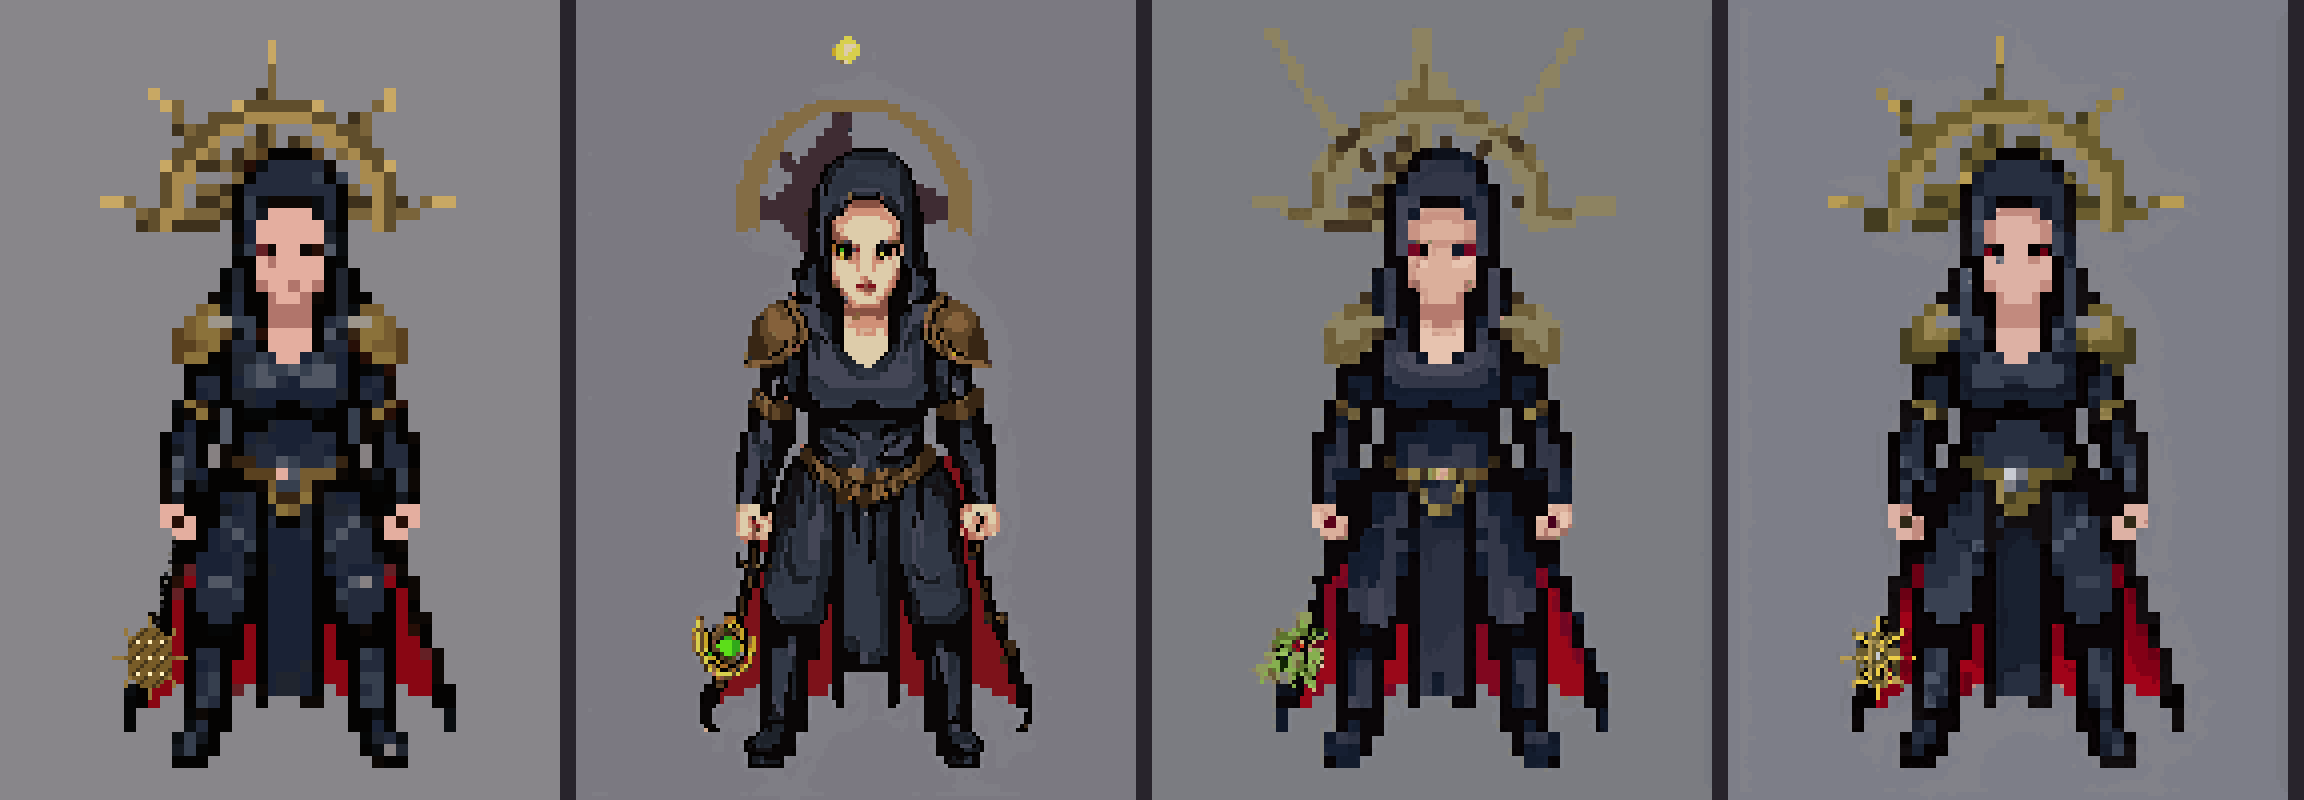
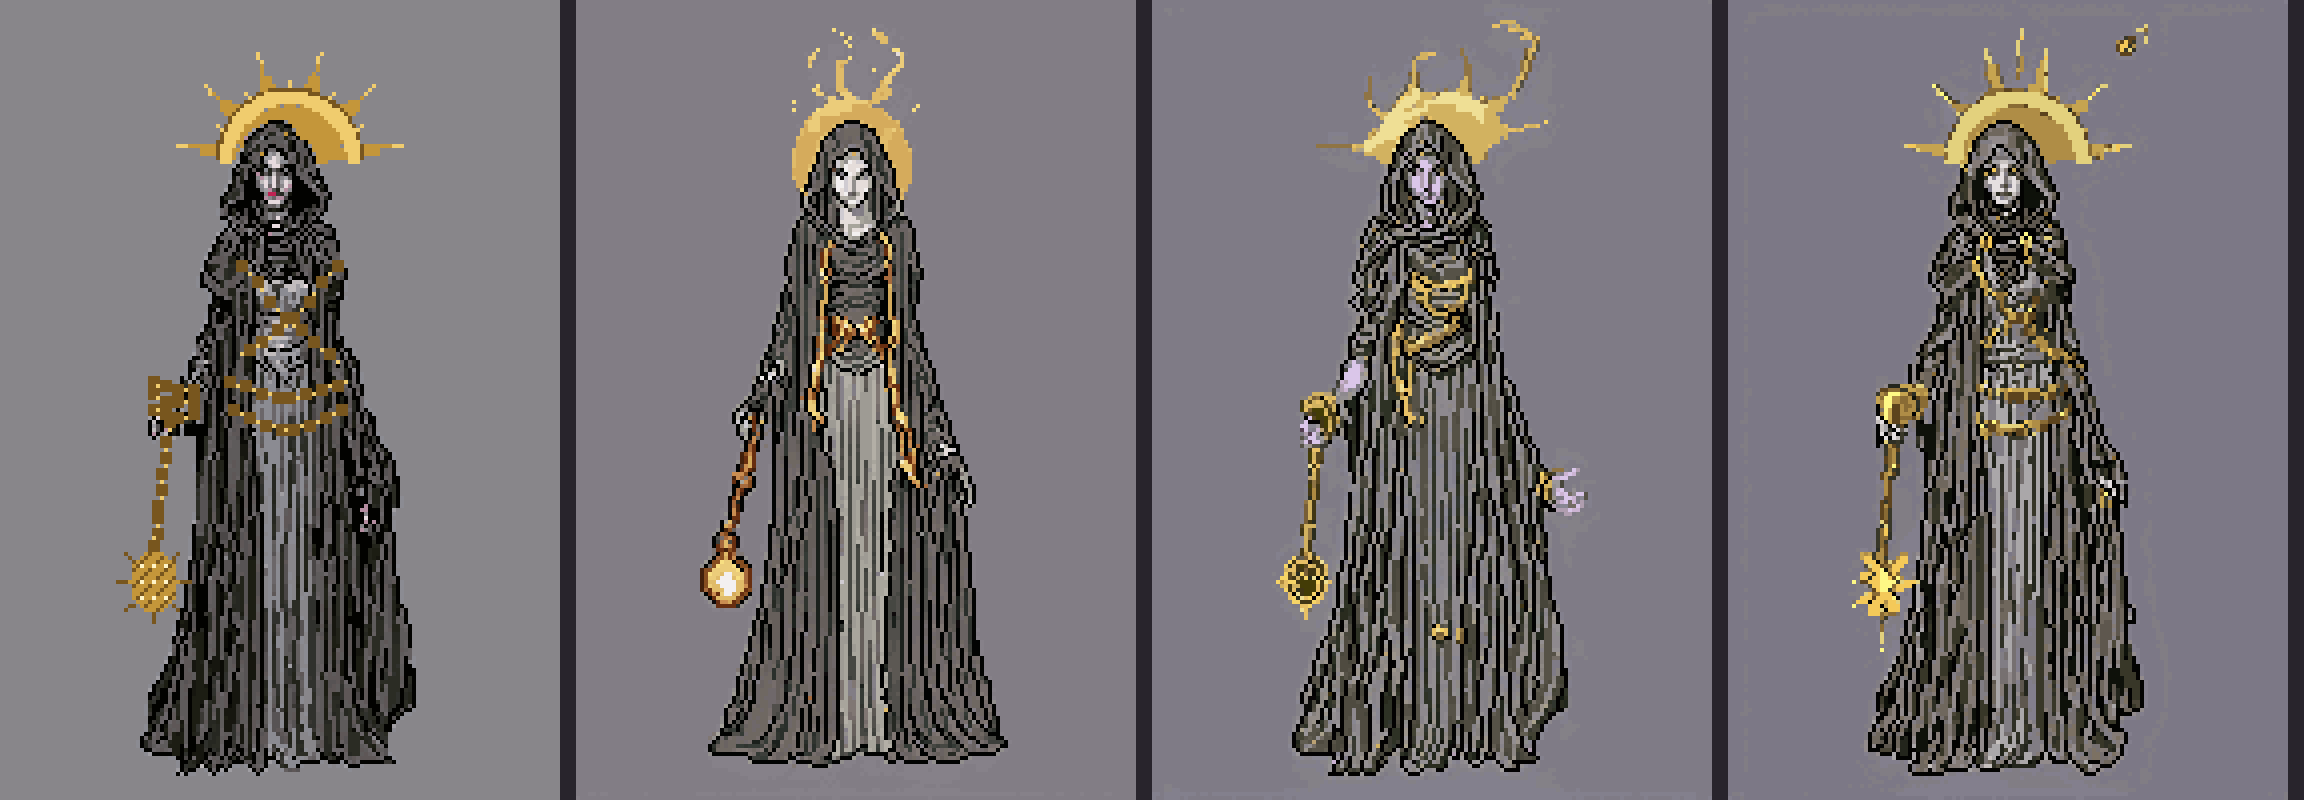
Inquisitor portrait take 7 (5B base, golden halo and chains); portrait tool takes 5-7

diff --git a/tools/inquisitor_portrait.py b/tools/inquisitor_portrait.py
@@ -108,6 +108,178 @@ def redraw4():
     gen.review(gen.GEN / "inquisitor_portrait_review.png", *[p for p in ps if p.exists()])
 
 
+def paint():
+    """Take 5 (the user: "the portrait, not the sprite image"): repaint the approved design freely, as a
+    detailed painted portrait like the other heroes', keeping her pose, halo and darkened gold."""
+    desc = ("highly detailed painted portrait art of a gothic inquisitor woman standing straight, full body, black hood framing "
+            "a pale severe face, a halo of long darkened gold spikes with a gold band arching through them behind her head, "
+            "black leather corset armor with darkened gold shoulder plates and buckles, long black coat with crimson lining, "
+            "tall black boots, a spiked censer on a chain in her hand glowing with white-gold holy fire, plain grey background")
+    for strength in (180, 260, 340):
+        out = D / f"p5_s{strength}.png"
+        if out.exists():
+            continue
+        body = {
+            "description": f"{desc}, anatomically correct, {gen.STYLE}",
+            "image_size": {"width": 140, "height": 200},
+            "no_background": False,
+            "outline": "single color black outline",
+            "shading": "detailed shading",
+            "detail": "highly detailed",
+            "view": "side",
+            "init_image": pixellab.b64img(D / "p4_final.png"),
+            "init_image_strength": strength,
+            "negative_description": "bent legs, crouching, crown, bright yellow gold, mask, blocky, low detail, extra hands, extra arms, text, watermark, nudity, chibi, big head",
+        }
+        r = gen.call("POST", "/create-image-bitforge", body)
+        gen.log_charge(f"inquisitor portrait p5 {strength}", r.get("usage"))
+        gen.save_b64(r["image"], out)
+        print("saved", strength, flush=True)
+    ps = [D / "p4_final.png"] + [D / f"p5_s{s}.png" for s in (180, 260, 340)]
+    gen.review(gen.GEN / "inquisitor_portrait_review.png", *[p for p in ps if p.exists()])
+
+
+def paint_guide(src_path, out_name, head, hand, chains, blades=False, k=0.86, ox=10, oy=26):
+    """A figure keyed out and dropped lower, a golden spiked halo with an arching band behind its head,
+    gold chains wrapped around the body, and a censer on a gold chain from one hand.
+    head / hand / chains are in the source image's pixels."""
+    src = Image.open(src_path).convert("RGBA")
+    px = src.load()
+    bg = px[0, 0]
+    for y in range(src.height):
+        for x in range(src.width):
+            p = px[x, y]
+            if all(abs(p[i] - bg[i]) < 14 for i in range(3)):
+                px[x, y] = (0, 0, 0, 0)
+            # 1C's two blades: light, unsaturated grey reaching out past her coat.
+            elif blades and 82 <= y <= 112 and (x < 42 or x > 98) and min(p[:3]) > 120 and max(p[:3]) - min(p[:3]) < 30:
+                px[x, y] = (0, 0, 0, 0)
+    fig = src.resize((int(src.width * k), int(src.height * k)), Image.NEAREST)
+    out = Image.new("RGBA", (140, 200), BG)
+    op = out.load()
+    GOLD, GOLD_HI, GOLD_DK = (196, 150, 58, 255), (240, 204, 110, 255), (120, 86, 30, 255)
+
+    def put(x, y, c, r=0):
+        for dx in range(-r, r + 1):
+            for dy in range(-r, r + 1):
+                X, Y = int(round(x)) + dx, int(round(y)) + dy
+                if 0 <= X < 140 and 0 <= Y < 200:
+                    op[X, Y] = c
+
+    f = lambda x, y: (ox + x * k, oy + y * k)
+    hx, hy = f(*head)
+    for i in range(11):
+        a = math.pi + 0.15 + i / 10 * (math.pi - 0.3)
+        length = 28 if i % 2 == 0 else 20
+        for t in range(8, length + 1):
+            put(hx + math.cos(a) * t, hy + math.sin(a) * t, GOLD_HI if t >= length - 2 else GOLD, 1 if t < length - 6 else 0)
+    for j in range(160):
+        a = math.pi + 0.05 + j / 159 * (math.pi - 0.1)
+        put(hx + math.cos(a) * 16, hy + math.sin(a) * 16, GOLD_HI, 1)
+        put(hx + math.cos(a) * 18, hy + math.sin(a) * 18, GOLD_DK)
+    out.alpha_composite(fig, (ox, oy))
+
+    def chain(x0, y0, x1, y1, sag=0.0):
+        n = int(max(abs(x1 - x0), abs(y1 - y0)) / 2) + 1
+        for s_ in range(n + 1):
+            t = s_ / n
+            x = x0 + (x1 - x0) * t
+            y = y0 + (y1 - y0) * t + math.sin(t * math.pi) * sag
+            put(x, y, GOLD_HI if s_ % 2 else GOLD_DK, 0 if s_ % 2 else 1)
+
+    for (x0, y0, x1, y1, sag) in chains:
+        chain(*f(x0, y0), *f(x1, y1), sag)
+    hx2, hy2 = f(*hand)
+    cen = (hx2 - 4, hy2 + 40)
+    chain(hx2, hy2, cen[0], cen[1] - 8, 2)
+    cx, cy = cen
+    for y in range(-7, 9):
+        w = int(6 * math.sqrt(max(0.0, 1 - (y / 8) ** 2)))
+        for x in range(-w, w + 1):
+            c = GOLD if (x + y) % 4 else GOLD_DK
+            if abs(x) < w - 1 and y % 4 == 0 and abs(x) % 3 == 0:
+                c = (255, 244, 200, 255)
+            put(cx + x, cy + y, c)
+    for a in range(8):
+        ang = a / 8 * math.tau
+        for t in range(7, 10):
+            put(cx + math.cos(ang) * t, cy + math.sin(ang) * t * 1.1, GOLD_DK)
+    out.save(D / out_name)
+    print("saved", out_name, flush=True)
+
+
+def guide6():
+    """Take 6 (the user): 1C's stance with the halo, gold chains and censer."""
+    v1 = gen.GEN / "_old" / "inquisitor_hero_v1"
+    chains = [(50, 40, 90, 82, 2), (88, 40, 52, 78, 3), (48, 86, 92, 86, 4), (50, 94, 90, 94, 5)] + [(40, 70 + r * 5, 50, 72 + r * 5, 1) for r in range(3)]
+    paint_guide(v1 / "full_c.png", "guide6.png", (70, 14), (46, 92), chains, blades=True)
+
+
+def guide7():
+    """Take 7 (the user: "use 5B as the base"): 5B's tall slender robed figure, with the golden spiked
+    halo, gold chains wrapped around her body and the censer on its chain."""
+    chains = [(58, 46, 86, 74, 2), (86, 46, 58, 72, 3), (55, 80, 88, 80, 4), (56, 88, 87, 88, 5)] + [(32, 80 + r * 4, 44, 82 + r * 4, 1) for r in range(3)]
+    paint_guide(D / "p5_s260.png", "guide7.png", (72, 16), (37, 92), chains)
+
+
+def redraw7():
+    desc = ("full body gothic inquisitor woman standing tall and slender in a long flowing black hooded robe, long ash-blonde "
+            "hair, a golden halo of long spikes with a gold band arching through them behind her head, gold chains wrapped "
+            "around her body, black leather corset, a spiked gold censer hanging on a chain from her hand glowing with holy "
+            "fire, plain grey background, highly detailed, cel shading, bold clean outlines")
+    for strength in (380, 460, 540):
+        out = D / f"p7_s{strength}.png"
+        if out.exists():
+            continue
+        body = {
+            "description": f"{desc}, anatomically correct, two hands, {gen.STYLE}",
+            "image_size": {"width": 140, "height": 200},
+            "no_background": False,
+            "outline": "single color black outline",
+            "shading": "flat shading",
+            "detail": "highly detailed",
+            "view": "side",
+            "init_image": pixellab.b64img(D / "guide7.png"),
+            "init_image_strength": strength,
+            "negative_description": "sword, blade, crown, mask, bent legs, crouching, extra hands, extra arms, text, watermark, nudity, chibi, big head",
+        }
+        r = gen.call("POST", "/create-image-bitforge", body)
+        gen.log_charge(f"inquisitor portrait p7 {strength}", r.get("usage"))
+        gen.save_b64(r["image"], out)
+        print("saved", strength, flush=True)
+    ps = [D / "guide7.png"] + [D / f"p7_s{s}.png" for s in (380, 460, 540)]
+    gen.review(gen.GEN / "inquisitor_portrait_review.png", *[p for p in ps if p.exists()])
+
+
+def redraw6():
+    desc = ("full body gothic inquisitor woman standing tall and slender, long ash-blonde hair, black hood, a golden halo of long "
+            "spikes with a gold band arching through them behind her head, gold chains wrapped around her body, black leather "
+            "corset armor with steel plates, long split black coat, tall black boots, a spiked gold censer hanging on a chain "
+            "from her hand glowing with holy fire, plain grey background, highly detailed, cel shading, bold clean outlines")
+    for strength in (380, 460, 540):
+        out = D / f"p6_s{strength}.png"
+        if out.exists():
+            continue
+        body = {
+            "description": f"{desc}, anatomically correct, two hands, {gen.STYLE}",
+            "image_size": {"width": 140, "height": 200},
+            "no_background": False,
+            "outline": "single color black outline",
+            "shading": "flat shading",
+            "detail": "highly detailed",
+            "view": "side",
+            "init_image": pixellab.b64img(D / "guide6.png"),
+            "init_image_strength": strength,
+            "negative_description": "sword, blade, crown, mask, bent legs, crouching, extra hands, extra arms, text, watermark, nudity, chibi, big head",
+        }
+        r = gen.call("POST", "/create-image-bitforge", body)
+        gen.log_charge(f"inquisitor portrait p6 {strength}", r.get("usage"))
+        gen.save_b64(r["image"], out)
+        print("saved", strength, flush=True)
+    ps = [D / "guide6.png"] + [D / f"p6_s{s}.png" for s in (380, 460, 540)]
+    gen.review(gen.GEN / "inquisitor_portrait_review.png", *[p for p in ps if p.exists()])
+
+
 def guide():
     src = Image.open(D / "full_c.png").convert("RGBA")
     # Key out the flat grey, shrink, and drop her lower for headroom.
@@ -211,4 +383,4 @@ def review():
 
 
 if __name__ == "__main__":
-    {"guide": guide, "redraw": redraw, "review": review, "guide4": guide_sprite, "redraw4": redraw4}[sys.argv[1]]()
+    {"guide": guide, "redraw": redraw, "review": review, "guide4": guide_sprite, "redraw4": redraw4, "paint": paint, "guide6": guide6, "redraw6": redraw6, "guide7": guide7, "redraw7": redraw7}[sys.argv[1]]()

diff --git a/tools/pack.py b/tools/pack.py
@@ -525,8 +525,9 @@ def pack_items():
                    # The user's picks (tools/class_portraits_v2.py and the guided redraws, 2026-10-05).
                    ("portrait_valkyrie", "valkyrie/full_h.png"), ("portrait_berserker", "berserker/b2guide_s450.png"),
                    ("portrait_reaper", "reaper/scythe2_s550.png"), ("portrait_druid", "druid/full_b.png"),
-                   # Built from her sprite, then redrawn and touched up (tools/inquisitor_portrait.py, 2026-10-06).
-                   ("portrait_inquisitor", "inquisitor_hero/p4_final.png")]:
+                   # The user's pick: 5B's build with a golden spiked halo, gold chains and the censer
+                   # (tools/inquisitor_portrait.py guide7 / redraw7, strength 540, specks cleaned).
+                   ("portrait_inquisitor", "inquisitor_hero/p7_final.png")]:
         p = GEN / src
         if not p.exists():
             continue
